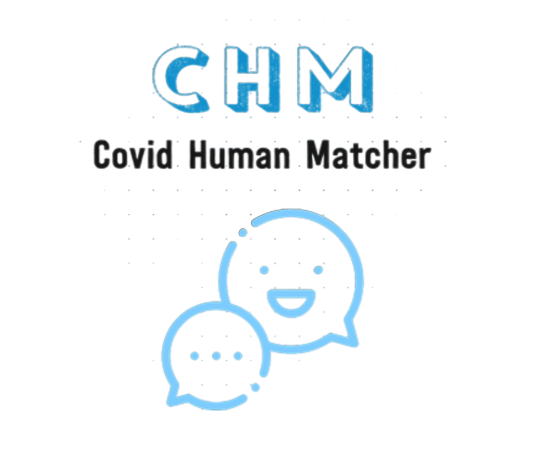
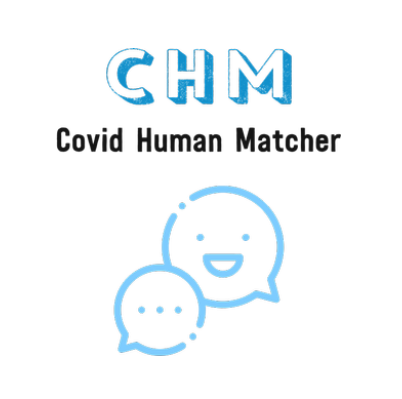
finished title component

Changed region(s): [[0.2687, 0.4211, 0.7164, 0.9023], [0.2388, 0.0902, 0.7463, 0.2707], [0.1194, 0.3008, 0.8657, 0.391]]

diff --git a/CHM-frontend/CHM/src/app/app.module.ts b/CHM-frontend/CHM/src/app/app.module.ts
@@ -8,7 +8,7 @@ import { ReactiveFormsModule, FormsModule } from '@angular/forms';
 // import { LogInComponent } from './components/log-in/log-in.component';
 import { HttpClientModule, HttpHeaders, HttpClient } from '@angular/common/http';
 
-import { LoginComponent } from './components/login/login.component';
+//import { LoginComponent } from './components/login/login.component';
 
 import { CreateProfileComponent } from './components/create-profile/create-profile.component';
 import { PaymentComponent } from './components/payment/payment.component';
@@ -25,8 +25,6 @@ import { TitleComponent } from './components/main/title/title.component';
   declarations: [
     AppComponent,
     RegisterationComponent,
-
-    LoginComponent,
     PaymentComponent,
     // LogInComponent, 
     CreateProfileComponent,

diff --git a/CHM-frontend/CHM/src/app/components/main/title/title.component.css b/CHM-frontend/CHM/src/app/components/main/title/title.component.css
@@ -1,11 +1,36 @@
-.nav {
-    margin-left: auto;
-    margin-right: 50px;
-    margin-top: 5px;
-    margin-bottom: 5px;
+.chm-text {
+    margin-left: 2rem;
+
+}
+.text-muted {
+    padding-left: 10px;
 }
 
-.nav-item{
-    margin-left: 5px;
-    margin-right: 5px;
+#toggle-btn{
+    margin-right: 2rem;
+}
+.glyphicon-nav {
+    width: 25px;
+    padding: 8px 0;
+    position: relative;
+    display: inline-block;
+}
+.glyphicon-nav:before {
+    content: '';
+    position: absolute;
+    width: 100%;
+    height: 100%;
+    left: 0;
+    border-top: 2px solid grey;
+    border-bottom: 2px solid grey;
+    top: 0px;
+}
+.glyphicon-nav:after {
+    content: '';
+    position: absolute;
+    top: 7px;
+    left: 0px;
+    height: 2px;
+    width: 100%;
+    background: grey;
 }

diff --git a/CHM-frontend/CHM/src/app/services/login.service.ts b/CHM-frontend/CHM/src/app/services/login.service.ts
@@ -11,7 +11,7 @@ export class LoginService {
 
   private readonly loginUrl = environment.loginUrl;
 
-  private jWT = this.retrieveLocalStore();
+  //private jWT = this.retrieveLocalStore();
 
   private expires!: number;
 
@@ -25,9 +25,9 @@ export class LoginService {
 
   constructor(private httpClient: HttpClient) { }
 
-  private retrieveLocalStore(): string {
-    return (localStorage.getItem(`token`) != null) ? localStorage.getItem(`token`) : '';
-  }
+  // private retrieveLocalStore(): string {
+  //   return (localStorage.getItem(`token`) != null) ? localStorage.getItem(`token`) : '';
+  // }
 
   private checkLocalStore(): boolean {
     if (this.jWT !== '') {

diff --git a/CHM-frontend/CHM/src/app/components/main/title/title.component.html b/CHM-frontend/CHM/src/app/components/main/title/title.component.html
@@ -1,6 +1,10 @@
-<nav class="navbar navbar-light bg-light">
+<nav class="navbar navbar-light bg-light" >
     <a class="navbar-brand" href="#">
-        <img src="" width="30" height="30" class="d-inline-block align-top" alt="">
-        CHM
+        <div class="chm-text"><strong>CHM</strong><small class="text-muted">Covid Human Matcher</small></div>
     </a>
+    <div id="toggle-btn">
+        <button type="button" class="btn btn-outline-dark btn-lg">
+            <span class="glyphicon glyphicon-nav" aria-hidden="true"></span>
+        </button>
+    </div>  
 </nav>

diff --git a/CHM-frontend/CHM/src/app/components/login/login.component.ts b/CHM-frontend/CHM/src/app/components/login/login.component.ts
@@ -33,7 +33,7 @@ export class LoginComponent implements OnInit {
         this.errorMessage = `successful login`;
         console.log('resp.headers.get(this.authHeader): ' + resp.headers.get(this.authHeader));
 
-        this.loginService.setJWT(resp.headers.get(this.authHeader));
+        //this.loginService.setJWT(resp.headers.get(this.authHeader));
 
         console.log(this.authHeader + ` : ` + resp.headers.get(this.authHeader));
 
